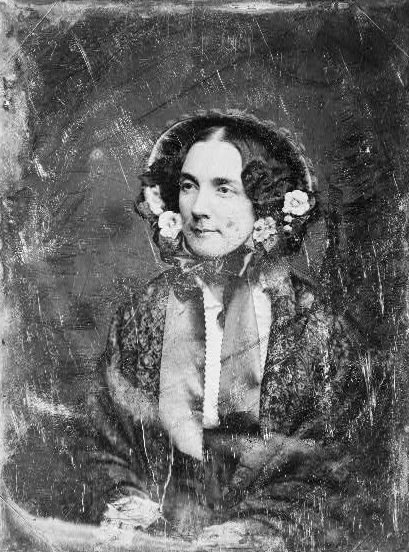
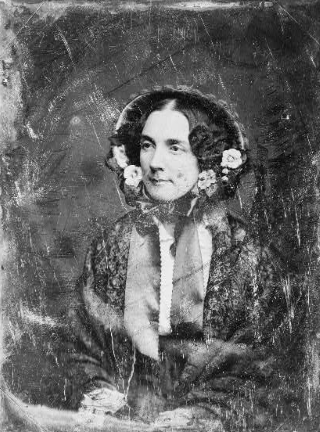
Compress portraits, add custom url support for portraits

diff --git a/src/components/steps/name-step.vue b/src/components/steps/name-step.vue
@@ -67,11 +67,22 @@
             >
                 <img :src="`/assets/${portrait.path}`" />
             </li>
+            <li v-if="scoundrel.portrait && !portraitSource" class="selected">
+                <img :src="scoundrel.portrait" />
+            </li>
         </ul>
-        <label v-if="scoundrel.portrait"
-            >{{ scoundrel.portrait }} ...
-            {{ getPortraitSource(scoundrel.portrait) }}</label
-        >
+        <label v-if="scoundrel.portrait && portraitSource">{{
+            portraitSource
+        }}</label>
+        <label v-else-if="scoundrel.portrait">{{
+            $t('User-interface.Steps.Name-and-look.portrait-custom')
+        }}</label>
+    </div>
+    <div class="input-block">
+        <label>
+            {{ $t('User-interface.Steps.Name-and-look.portrait-url-prompt') }}
+        </label>
+        <input type="text" v-model="scoundrel.portrait" />
     </div>
 </template>
 
@@ -84,6 +95,7 @@ import { t } from '@/i18n/locale';
 import { Scoundrel } from '@/scoundrel';
 import { randomItem } from '@/util/random';
 import { capitalize } from '@/util/string-util';
+import { computed } from 'vue';
 
 const props = defineProps<{
     scoundrel: Scoundrel;
@@ -95,6 +107,13 @@ const aliases = namesData.aliases;
 const adjectives = looksData.personWordAdjectives;
 const apparel = looksData.apparel;
 const portraits = portraitsData;
+
+const portraitSource = computed(() => {
+    if (getPortraitSource(props.scoundrel.portrait) === null) return '';
+    return `${props.scoundrel.portrait} ... ${getPortraitSource(
+        props.scoundrel.portrait
+    )}`;
+});
 
 function randomizeName() {
     props.scoundrel.name = `${randomItem(firstNames)} ${randomItem(lastNames)}`;
@@ -145,21 +164,10 @@ function randomizeLook() {
     return;
 }
 
-function joinWithAnd(arr: string[]) {
-    if (arr.length === 0) return '';
-    if (arr.length === 1) return arr[0];
-    if (arr.length === 2) return arr.join(` ${t('Looks.Joining-words.and')} `);
-    return (
-        arr.slice(0, -1).join(', ') +
-        `, ${t('Looks.Joining-words.and')} ` +
-        arr.slice(-1)
-    );
-}
-
 function getPortraitSource(portraitPath: string) {
     const source = portraits.find((p) => p.path === portraitPath)?.source;
     if (source) return `(${source})`;
-    return 'No source';
+    return null;
 }
 </script>
 

diff --git a/src/components/steps/actions-step.vue b/src/components/steps/actions-step.vue
@@ -95,7 +95,7 @@
                                     class="btn btn--mini"
                                     :class="{
                                         disabled:
-                                            !scoundrel.actions[action].custom,
+                                            !scoundrel.actions[action].custom
                                     }"
                                     @click="changeAction(action, -1)"
                                 >
@@ -110,7 +110,7 @@
                                                 action
                                             ) === maxActionValue ||
                                             (scoundrel.optionActionsCreatingCharacter &&
-                                                totalActionRatings >= 7),
+                                                totalActionRatings >= 7)
                                     }"
                                     @click="changeAction(action, 1)"
                                 >
@@ -133,15 +133,15 @@
 <script setup lang="ts">
 import attributesData from '@/assets/data/attributes.json';
 import backgroundDetailsData from '@/assets/data/background-suggestions.json';
-import { TraitDetail } from '@/data-types';
 import heritageDetailsData from '@/assets/data/heritage-suggestions.json';
 import ActionTag from '@/components/action-tag.vue';
 import StepHeader from '@/components/step-header.vue';
+import { TraitDetail } from '@/data-types';
 import { Scoundrel } from '@/scoundrel';
 import {
     getActionValue,
     getAttribute,
-    getAttributeColor,
+    getAttributeColor
 } from '@/util/action-util';
 import { capitalize } from '@/util/string-util';
 import { computed, onMounted } from 'vue';
@@ -243,7 +243,7 @@ const suggestedRatingsHTML = computed(() => {
     heritageDetailActions.forEach((action) => {
         suggestedActions.push({
             action,
-            isImportant: false,
+            isImportant: false
         });
     });
 
@@ -254,7 +254,7 @@ const suggestedRatingsHTML = computed(() => {
         if (index === -1)
             suggestedActions.push({
                 action,
-                isImportant: false,
+                isImportant: false
             });
         else suggestedActions[index].isImportant = true;
     });

diff --git a/src/components/scoundrel-card.vue b/src/components/scoundrel-card.vue
@@ -3,11 +3,7 @@
         <div class="portrait-container">
             <img
                 class="portrait"
-                :src="
-                    props.scoundrel.portrait
-                        ? `/assets/${props.scoundrel.portrait}`
-                        : '/assets/icons/theater.png'
-                "
+                :src="portraitUrl"
                 :style="{ opacity: props.scoundrel.portrait ? 1 : 0.2 }"
             />
 
@@ -35,7 +31,7 @@
 </template>
 
 <script setup lang="ts">
-import i18n from '@/i18n/locale';
+import portraits from '@/assets/data/portraits.json';
 import { Scoundrel } from '@/scoundrel';
 import { getSemanticScoundrelName } from '@/util/scoundrel-util';
 import { computed } from 'vue';
@@ -48,6 +44,16 @@ const props = defineProps<{
 
 const semanticName = computed(() => {
     return getSemanticScoundrelName(props.scoundrel);
+});
+
+const portraitUrl = computed(() => {
+    if (!props.scoundrel.portrait) return '/assets/icons/theater.png';
+    const isAsset = portraits.find(
+        (p) => p.path === props.scoundrel.portrait
+    )?.source;
+    return isAsset
+        ? `/assets/${props.scoundrel.portrait}`
+        : props.scoundrel.portrait;
 });
 </script>
 
